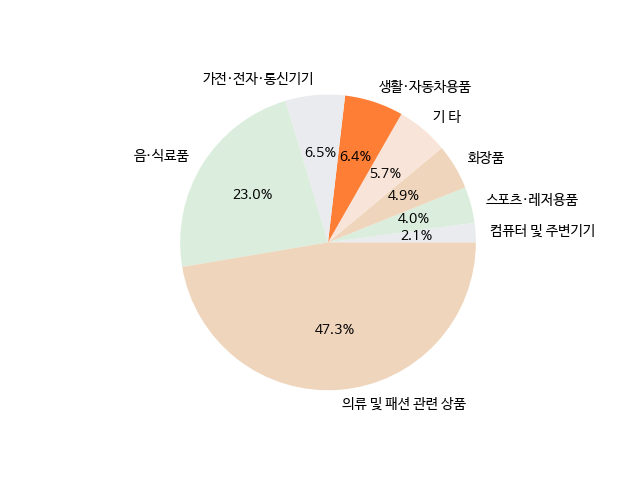
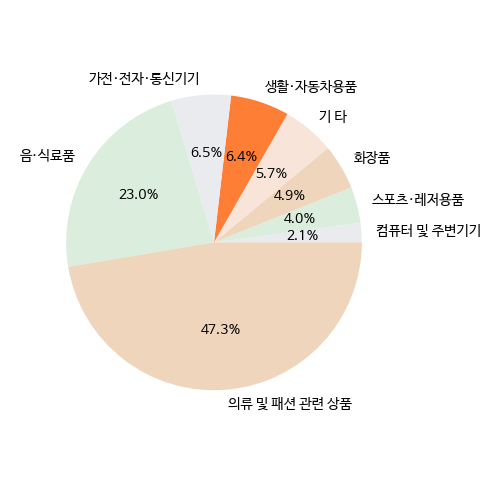
css index 최종

diff --git a/front/public/index.css b/front/public/index.css
@@ -1,11 +1,13 @@
 body {
-    background-color: #ffffff;
-    font-family: "Noto Sans KR", sans-serif;
+    background-color: #fff;
+    font-family: "Nanum Gothic Coding", monospace;
     font-optical-sizing: auto;
     font-style: normal;
     width: 100%;
     height: 100vh;
     margin: 0;
+    overflow: hidden;
+    
 }
 /* a 태그 사용 시 밑줄과 색 변경 제거 */
 a {
@@ -14,44 +16,58 @@ a {
 }
 /* 헤더 태그들 */
 .header {
-    background-color: #0F172A;
+    background-color: #fff;
     width: 100vw;
-    height: 10%;
+    height: 8%;
     margin: 0;
     /* border-bottom: 1px solid #e0e0e0; */
     display: flex;
     align-items: center;
     justify-content: space-between;
+    border-bottom: 1px solid #ececec;
+    /* box-shadow: 0px 3px 5px rgba(0, 0, 0, 0.1); */
 }
 .h_div {
-    margin-left: 15px;
+    margin-left: 20px;
     display: flex;
     align-items: center;
     justify-content: space-between;
 }
-.contents {
-
-    display: flex;
-    align-items: center;
-    justify-content: space-between;
-    margin: 20px 160px;
+.b_div {
+    margin: 10px;
 }
 .title {
-    font-size: 17px;
-    /* 폰트 굵기 100-700 */
-    font-weight: 700;
-    color: #ffffff;
+    font-size: 25px;
+    font-weight: 500;
+    color:  #FF6F0E;
     margin-bottom: 3px;
+    font-family: "Jua", sans-serif;
+}
+.title_contents {
+    font-size: 40px;
+    font-family: "Jua", sans-serif;
+    font-weight: 400;
+    color: black;
+    margin-bottom: 3px;
+    width: 70vw;
+}
+.contents {
+    display: flex;
+    align-items: center;
+    justify-content: space-between;
+    margin: 10px 300px;
+    line-height: 2;
 }
 .info {
     font-size: 17px;
     color: rgb(102, 102, 102);
-    margin-top: 50px;
+    margin-top: 20px;
 }
 .info_btn {
     margin-top: 50px;
-    background-color: #3B82F6;
-    color: #e0e8f6;
+    background-color: #FF6F0E;
+    font-weight: 700;
+    color: #fff;
     font-size: 17px;
     padding: 20px;
     border: none;
@@ -64,18 +80,11 @@ a {
     align-items: center;
     height: 93%;
 }
-.contents_title {
-    font-size: 40px;
-    /* 폰트 굵기 100-700 */
-    font-weight: 700;
-    color: black;
-    margin-bottom: 3px;
-    width: 70vw;
-}
+
 .bottom {
     position: fixed;
     bottom: 0;
-    background-color: #0F172A;
+    background-color: #1b2332;
     width: 100vw;
     height: 20vh;
     padding: 25px;
@@ -84,5 +93,5 @@ a {
     color: #e0e8f6;
     font-size: 15px;
     padding-top: 10px;
-
+    line-height: 1.5;
 }

diff --git a/front/public/index.html b/front/public/index.html
@@ -4,21 +4,19 @@
     <meta charset="utf-8" />
     <title>main</title>
     <link type="text/css" rel="stylesheet" href="index.css" />
-    <link
-      rel="stylesheet"
-      href="https://fonts.googleapis.com/css2?family=Material+Symbols+Outlined:opsz,wght,FILL,GRAD@20..48,100..700,0..1,-50..200"
-    />
+    <link href="https://fonts.googleapis.com/css2?family=Jua&display=swap" rel="stylesheet">
+    <link href="https://fonts.googleapis.com/css2?family=Jua&family=Nanum+Gothic+Coding&display=swap" rel="stylesheet">
   </head>
   <body>
     <!-- 레이아웃 헤더  -->
     <div class="header">
       <div class="h_div">
-        <img src="headerIcron.png" style="width: 35px;margin-right: 10px;">
+        <img src="log.png" style="width: 55px; margin-right: 10px">
         <a href="#" class="title">온더락</a>
       </div>
     </div>
     <div class="contents">
-      <div class="contents_title">
+      <div class="title_contents">
         온더락
         <div class="info">
           최근 늘어나는 해외 직구 데이터와 온라인 쇼핑몰의 상관관계를 파악하고 <br>
@@ -29,7 +27,7 @@
         value="Start to check our data">
       </div>
       <div>
-        <img src="wordcloud.png" style="width: 500px;margin-right: 80px;">
+        <img src="piechart.png" style="width: 400px;">
       </div>
     </div>
     <div class="bottom">

diff --git a/front/public/main.css b/front/public/main.css
@@ -87,22 +87,22 @@ a {
 }
 .m_div_selected {
 /* 선택된 메뉴 색상 */
-width: 100%;
-height: 5vh;
-padding-top: 30px;
-background-color: #fcb43b;
+    width: 100%;
+    height: 5vh;
+    padding-top: 30px;
+    background-color: #fcb43b;
 }
 .m_div_selected:hover {
-color: #ffffff;
-background-color: #eed5bb;
+    color: #ffffff;
+    background-color: #eed5bb;
 }
 .m_div_selected a {
-color: #222222;
-font-size: 15px;
-font-weight: 700;
-padding: 10px;
-width: 100%;
-height: 100%;
+    color: #ffffff;
+    font-size: 15px;
+    font-weight: 700;
+    padding: 10px;
+    width: 100%;
+    height: 100%;
 }
 .m_div_selected a:hover {
 color: #ffffff;

diff --git a/front/public/graph.css b/front/public/graph.css
@@ -97,7 +97,7 @@ a {
   background-color: #eed5bb;
 }
 .m_div_selected a {
-  color: #222222;
+  color: #ffffff;
   font-size: 15px;
   font-weight: 700;
   padding: 10px;
